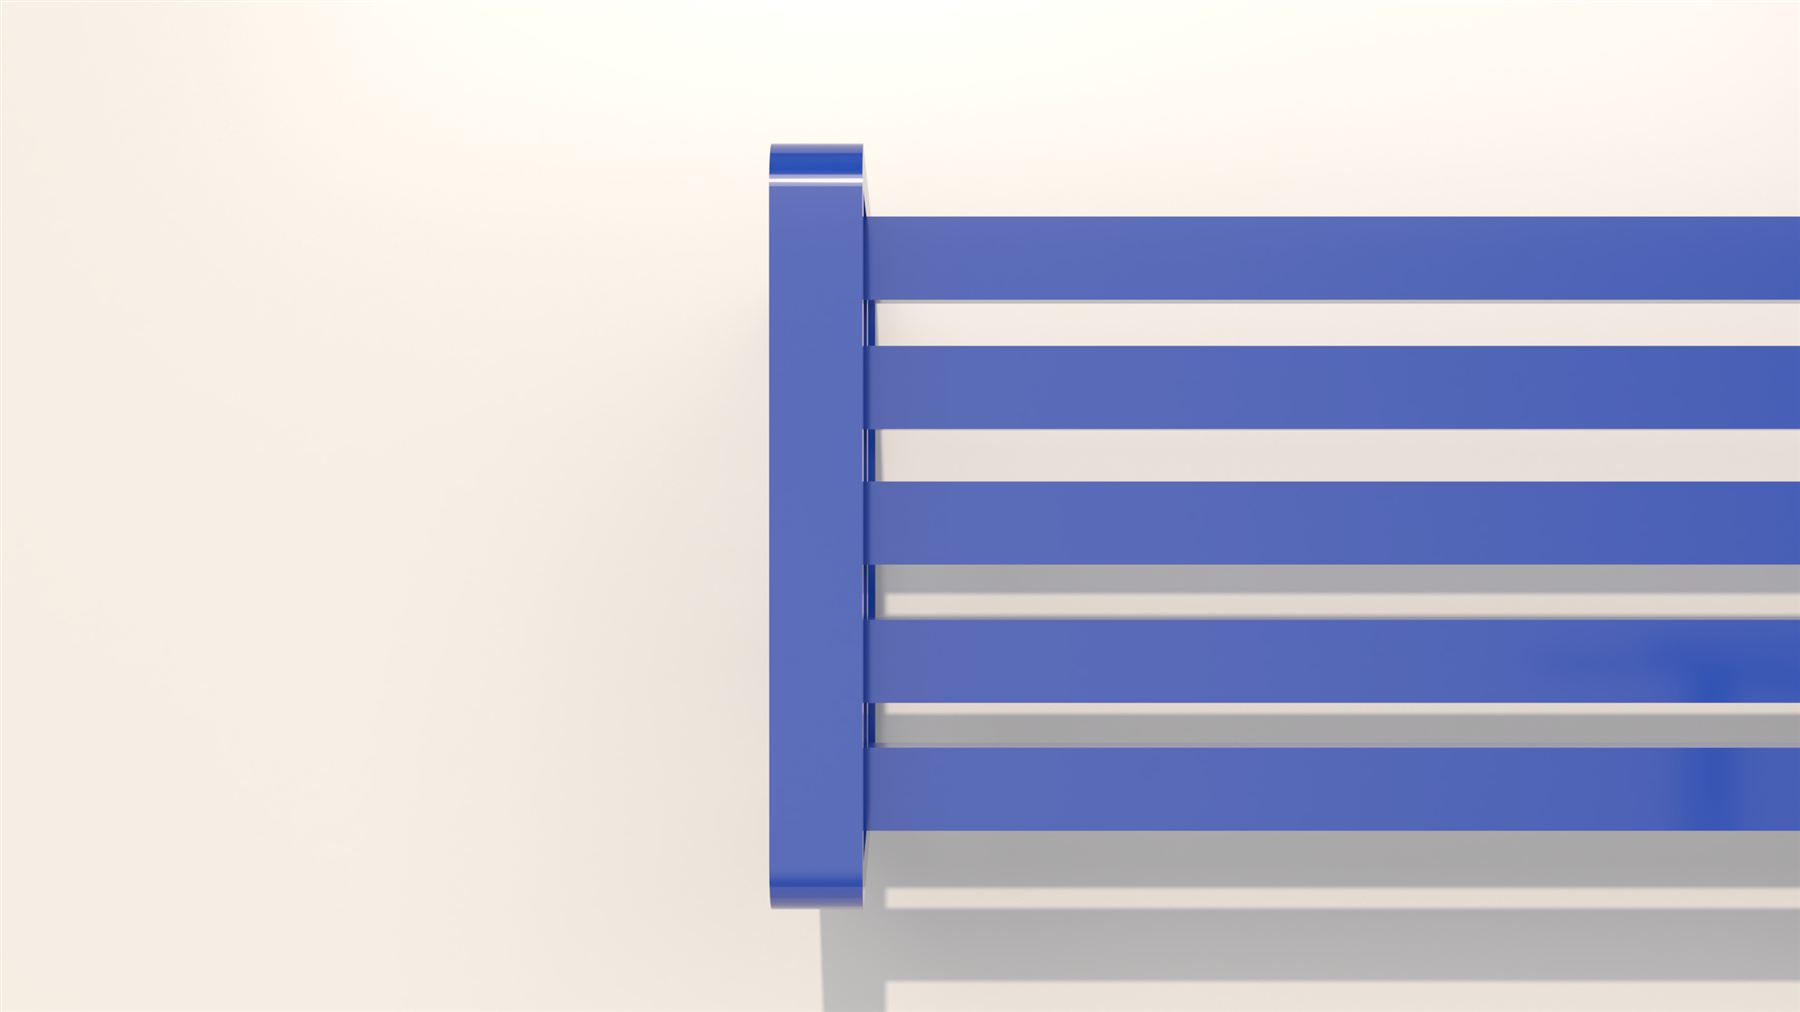
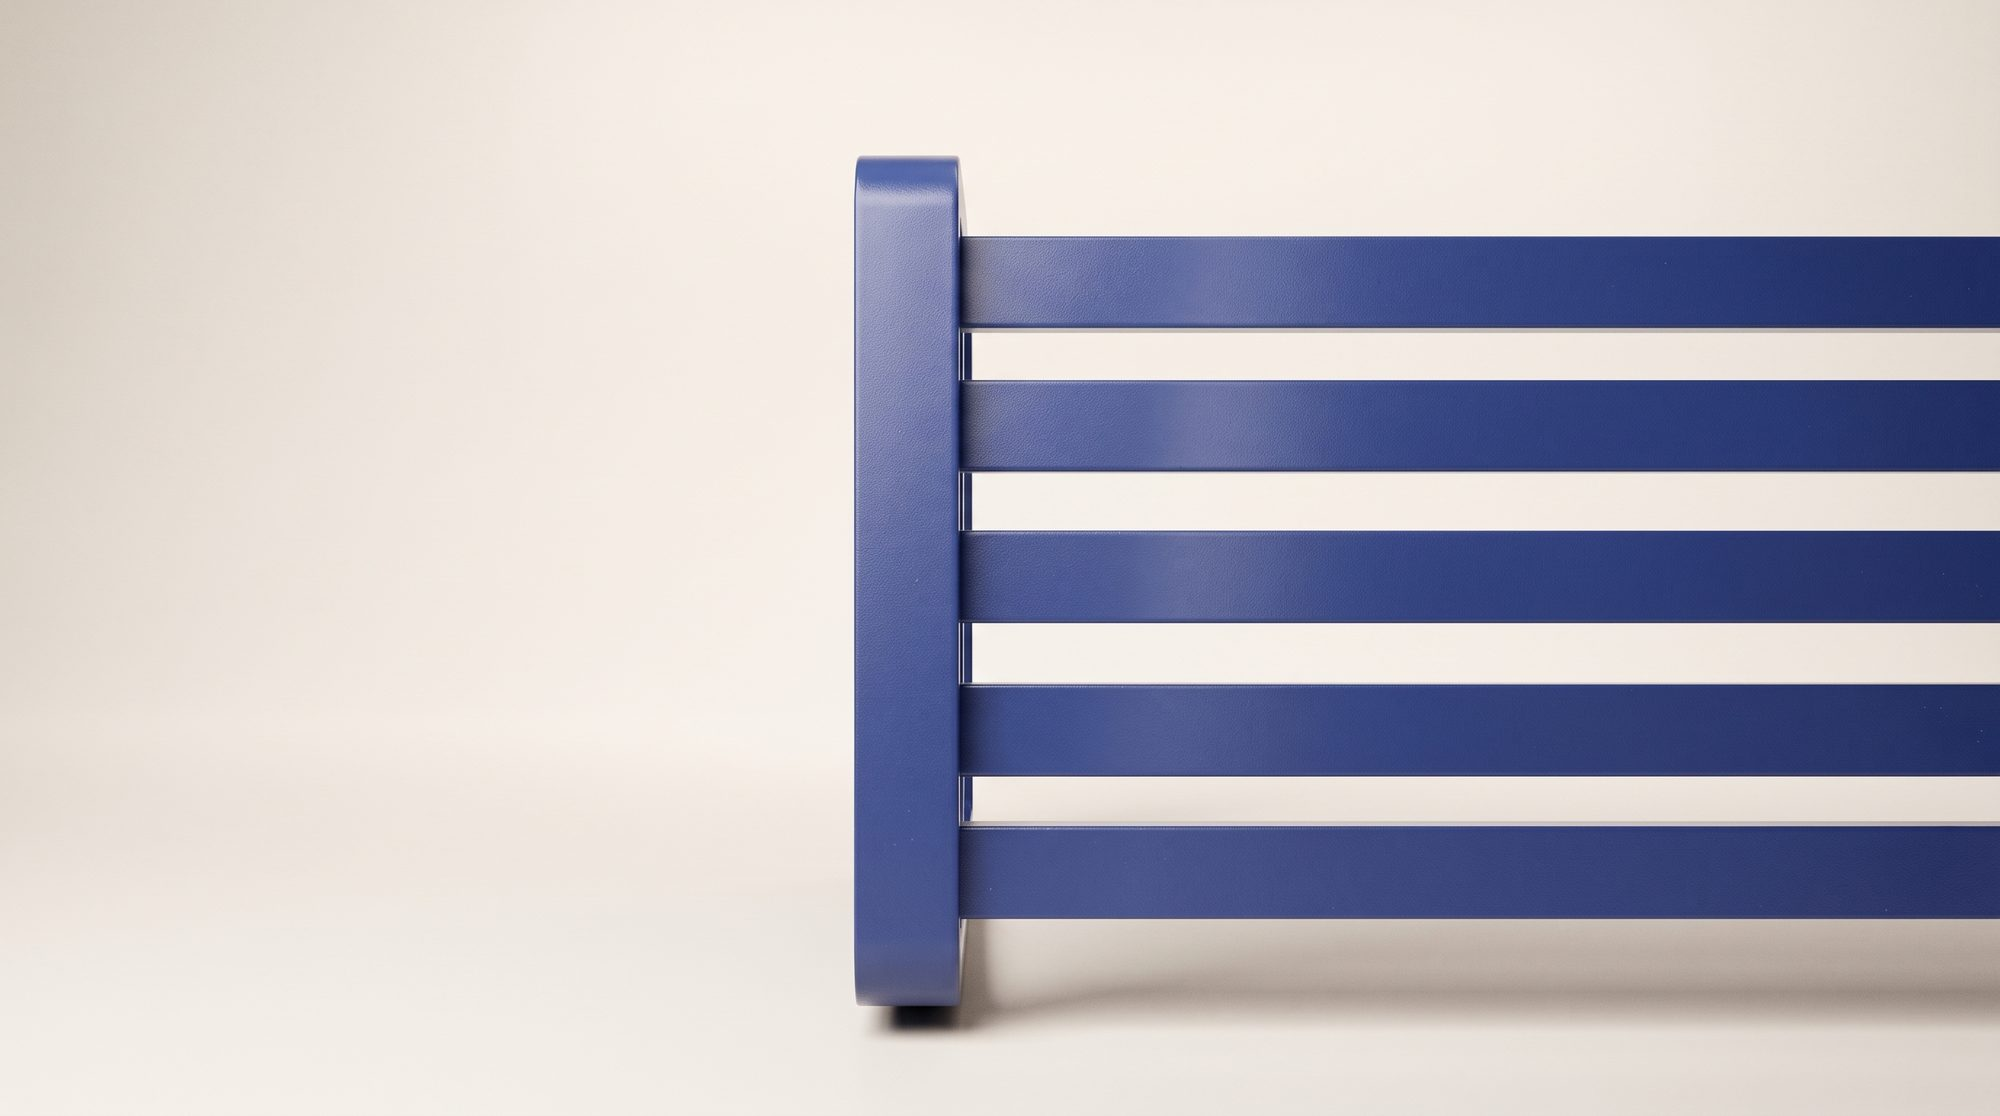
Quita la sección wecare, renders nuevos de Munchspot, scroll táctil
wecare sale de la página mientras decide si muestra ese trabajo. La entrada del
CV se queda. Las imágenes siguen en img/wecare y la regla .shot--cut se conserva:
volver a ponerla es recuperar el marcado de este commit, no reescribirlo.

Munchspot estrena las tres vistas retocadas. El marco de la superior pasa de
1.779 a 1.792 para coincidir con el render y no recortarlo.

El scroll en móvil: había 23 tweens atados al scroll, 18 de ellos parallax por
imagen y 15 de Hydrofoil hacia abajo. Cada uno escribe una transformación en
cada frame, compitiendo con la inercia táctil que anima el propio sistema — de
ahí el arrastre. El parallax por imagen queda desactivado en punteros gruesos
(quedan 5) y con él se va el recorte del 16% que existía sólo para darle
recorrido: en móvil las fotos ahora llenan su marco.

diff --git a/SITE/index.html b/SITE/index.html
@@ -518,7 +518,7 @@
         </figure>
       </div>
       <div class="gal__row">
-        <figure class="shot" style="--ar:1.779">
+        <figure class="shot" style="--ar:1.792">
           <div class="shot__f reveal"><img data-para="6" src="img/munchspot/02-sup.jpg" alt="Vista superior de las láminas de la banca" loading="lazy"></div>
           <figcaption class="shot__cap"><b>03</b><span>L&aacute;minas del asiento &mdash; vista superior</span></figcaption>
         </figure>
@@ -542,75 +542,6 @@
     </div>
   </div>
 </article>
-
-<!-- ═══ WECARE ═══ -->
-<section id="wecare">
-  <hr class="rule reveal">
-  <div class="wrap">
-    <div class="project__head">
-      <span class="project__num project__num--wide">Experiencia profesional</span>
-      <div class="phead__word">
-        <h2 class="display t-poster" data-fit="1.04" data-lift="8">wecare</h2>
-      </div>
-    </div>
-
-    <div class="phead__meta">
-      <p class="lede rise">
-        Modelado 3D, animación, rendering y desarrollo de archivos listos para impresión
-        como Product Designer. Línea de detergente en hojas y desechables compostables.
-      </p>
-      <dl class="spec">
-        <div><dt>Año</dt><dd>2026 &mdash;</dd></div>
-        <div><dt>Rol</dt><dd>Product designer</dd></div>
-        <div><dt>Herramientas</dt><dd>Blender &middot; Illustrator &middot; Dimension</dd></div>
-      </dl>
-    </div>
-  </div>
-
-  <div class="wrap">
-      <div class="gal">
-      <div class="gal__row">
-        <figure class="shot shot--cut" style="--ar:1.335">
-          <div class="shot__f reveal"><img data-para="4" src="img/wecare/dh70-iso-abierto.webp" alt="Empaque wecare laundry sheets, vista isometrica abierta" loading="lazy"></div>
-          <figcaption class="shot__cap"><b>01</b><span>DH70 &middot; iso abierto</span></figcaption>
-        </figure>
-        <figure class="shot shot--cut" style="--ar:1.204">
-          <div class="shot__f reveal"><img data-para="4" src="img/wecare/dh70l-frente-cerrado.webp" alt="Empaque wecare 70 piezas, aroma lavanda" loading="lazy"></div>
-          <figcaption class="shot__cap"><b>02</b><span>DH70L &middot; lavanda</span></figcaption>
-        </figure>
-        <figure class="shot shot--cut" style="--ar:0.654">
-          <div class="shot__f reveal"><img data-para="4" src="img/wecare/cpvtr-frente-3.webp" alt="Juego de vasos de papel compostable wecare" loading="lazy"></div>
-          <figcaption class="shot__cap"><b>03</b><span>CPVTR &middot; vasos compostables</span></figcaption>
-        </figure>
-      </div>
-      <div class="gal__row">
-        <figure class="shot shot--cut" style="--ar:1.463">
-          <div class="shot__f reveal"><img data-para="4" src="img/wecare/dh36f-frente-abierto.webp" alt="Empaque wecare 36 piezas, abierto" loading="lazy"></div>
-          <figcaption class="shot__cap"><b>04</b><span>DH36F &middot; abierto</span></figcaption>
-        </figure>
-        <figure class="shot shot--cut" style="--ar:1.204">
-          <div class="shot__f reveal"><img data-para="4" src="img/wecare/dh70-frente-cerrado.webp" alt="Empaque wecare 70 piezas, sin aroma" loading="lazy"></div>
-          <figcaption class="shot__cap"><b>05</b><span>DH70 &middot; sin aroma</span></figcaption>
-        </figure>
-        <figure class="shot shot--cut" style="--ar:1.263">
-          <div class="shot__f reveal"><img data-para="4" src="img/wecare/dh70-iso-cerrado.webp" alt="Empaque wecare, vista isometrica cerrada" loading="lazy"></div>
-          <figcaption class="shot__cap"><b>06</b><span>DH70 &middot; iso cerrado</span></figcaption>
-        </figure>
-      </div>
-      <div class="gal__row">
-        <figure class="shot shot--cut" style="--ar:1.467">
-          <div class="shot__f reveal"><img data-para="4" src="img/wecare/dhaf36.webp" alt="Empaque wecare 36 piezas" loading="lazy"></div>
-          <figcaption class="shot__cap"><b>07</b><span>DHAF36 &middot; 36 piezas</span></figcaption>
-        </figure>
-        <figure class="shot shot--cut" style="--ar:1.204">
-          <div class="shot__f reveal"><img data-para="4" src="img/wecare/dh70f-frente-cerrado.webp" alt="Empaque wecare 70 piezas, aroma ropa fresca" loading="lazy"></div>
-          <figcaption class="shot__cap"><b>08</b><span>DH70F &middot; ropa fresca</span></figcaption>
-        </figure>
-      </div>
-      </div>
-  </div>
-
-</section>
 
 <!-- ═══ CONTACTO ═══ -->
 <section class="close" id="contacto">
@@ -834,20 +765,6 @@
     'Acero inoxidable': 'Stainless steel',
     'Recubrimiento electrostático': 'Powder coating',
     'Vinil transferible': 'Transfer vinyl',
-
-    /* wecare */
-    'Experiencia profesional': 'Professional experience',
-    'Herramientas': 'Tools',
-    'Modelado 3D, animación, rendering y desarrollo de archivos listos para impresión como Product Designer. Línea de detergente en hojas y desechables compostables.':
-      '3D modeling, animation, rendering and print-ready file development as Product Designer. Laundry detergent sheet line and compostable disposables.',
-    'DH70 · iso abierto': 'DH70 · iso, open',
-    'DH70L · lavanda': 'DH70L · lavender',
-    'CPVTR · vasos compostables': 'CPVTR · compostable cups',
-    'DH36F · abierto': 'DH36F · open',
-    'DH70 · sin aroma': 'DH70 · unscented',
-    'DH70 · iso cerrado': 'DH70 · iso, closed',
-    'DHAF36 · 36 piezas': 'DHAF36 · 36 pieces',
-    'DH70F · ropa fresca': 'DH70F · fresh laundry',
 
     /* close */
     'Trabajemos<br>juntos': 'Let’s work<br>together',
@@ -1153,6 +1070,11 @@ window.addEventListener('load', function () {
   document.documentElement.dataset.motion = 'on';
   gsap.registerPlugin(ScrollTrigger);
 
+  // Touch scrolling is animated by the platform itself, so anything scrubbed
+  // against it is a second animation racing the first. Used to gate the
+  // per-image parallax below; the stylesheet drops the matching crop.
+  var COARSE = window.matchMedia('(hover: none) and (pointer: coarse)');
+
   // ScrollTrigger owns the reveals: one system reading one scroll position,
   // rather than an IntersectionObserver measuring a rect that clip-path has
   // already collapsed.
@@ -1286,16 +1208,31 @@ window.addEventListener('load', function () {
     });
   });
 
-  gsap.utils.toArray('[data-para]').forEach(function (el) {
-    var d = parseFloat(el.dataset.para) || 0;
-    gsap.fromTo(el, { yPercent: -d }, {
-      yPercent: d, ease: 'none',
-      scrollTrigger: {
-        trigger: el.parentElement || el,
-        start: 'top bottom', end: 'bottom top', scrub: true
-      }
+  // Not on a touch screen. Eighteen of these were running, fifteen of them from
+  // the first project down, and each one writes a transform on every scroll
+  // frame -- so from Hydrofoil onward the phone was compositing eighteen
+  // oversized images against a scroll it also had to animate itself. A scrubbed
+  // tween chases the scroll position by definition, and against touch momentum
+  // that lag is felt directly: the page seems to drag on the pictures.
+  //
+  // And it was buying almost nothing there. The drift is a percentage of the
+  // frame's own height; in a single phone column that is a few pixels of travel
+  // nobody reads as depth. Paying the frame budget of the whole lower page for
+  // it is the wrong trade. It stays on pointer devices, where the frames are
+  // large enough for the effect to register and the scroll is not being
+  // animated by the platform at the same time.
+  if (!COARSE.matches) {
+    gsap.utils.toArray('[data-para]').forEach(function (el) {
+      var d = parseFloat(el.dataset.para) || 0;
+      gsap.fromTo(el, { yPercent: -d }, {
+        yPercent: d, ease: 'none',
+        scrollTrigger: {
+          trigger: el.parentElement || el,
+          start: 'top bottom', end: 'bottom top', scrub: true
+        }
+      });
     });
-  });
+  }
 
   // Fonts and lazy media change layout after first paint, and ScrollTrigger
   // caches start positions on creation. Without refreshing as images arrive,

diff --git a/SITE/site.css b/SITE/site.css
@@ -586,6 +586,7 @@ body > .hero{ scroll-margin-top: 0; }
   position: absolute; left: 0; top: -8%; height: 116%;
 }
 
+
 /* ==========================================================================
    PLATES — the project galleries.
    Uniform rows of equal images read as a contact sheet, not as art direction.
@@ -619,10 +620,25 @@ body > .hero{ scroll-margin-top: 0; }
   width: 100%; height: 116%;
   object-fit: cover; display: block;
 }
+/* On a touch screen the drift does not run (see index.html), so this overheight
+   would be a crop with nothing to justify it -- 8% off the top and 8% off the
+   bottom of every photograph in exchange for a movement that never happens.
+   Without the drift the picture can simply fill its frame. */
+@media (hover: none) and (pointer: coarse){
+  .bleed img[data-para], .frame img[data-para],
+  .shot__f img{
+    top: 0; height: 100%;
+  }
+}
 
-/* The wecare renders are alpha cut-outs, not photographs. Cropping them to
-   fill a frame would slice the packaging, so they sit inside their cell with
-   air around them and a ground to stand on. */
+/* Kept, unused for now. The one section that used it -- the wecare packaging --
+   was taken off the page on 2026-09-10 while he decides whether to show that
+   work; the renders are still in img/wecare and the markup is one commit back.
+   Deleting the rule would just mean rewriting it when the section returns.
+
+   What it does: those renders are alpha cut-outs, not photographs. Cropping
+   them to fill a frame would slice the packaging, so they sit inside their cell
+   with air around them and a ground to stand on. */
 .shot--cut .shot__f{ background: var(--paper-2); }
 /* Cut-outs cannot be over-scaled and cropped -- that would slice the packaging.
    Their travel comes out of the padding instead, so the drift is smaller. */
